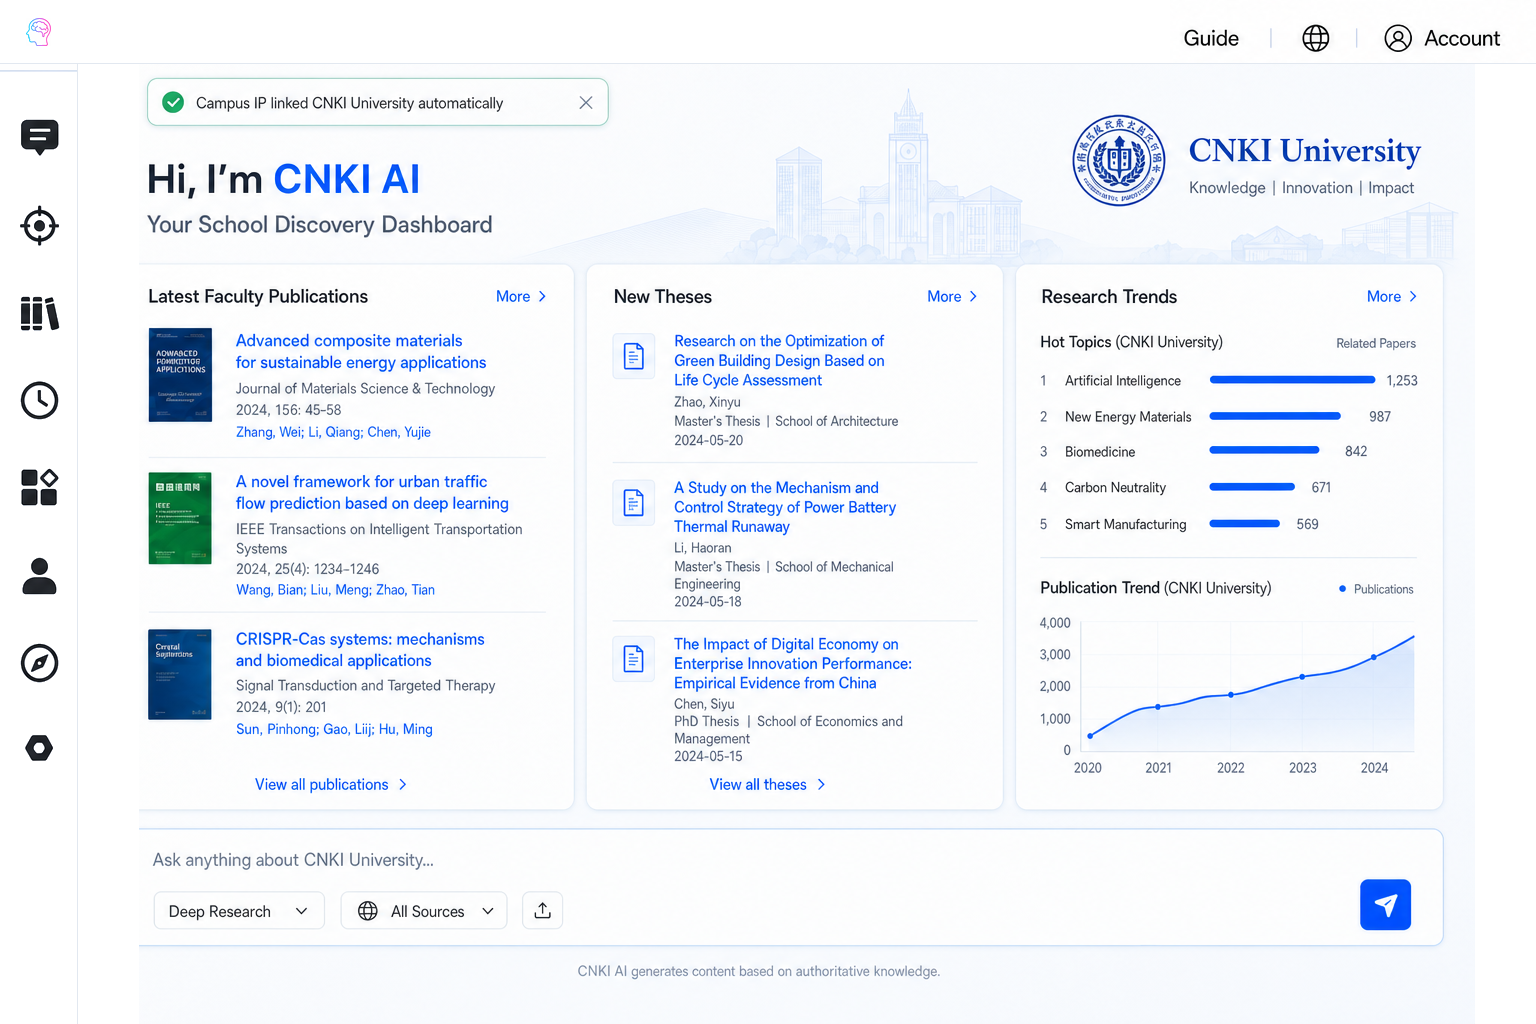
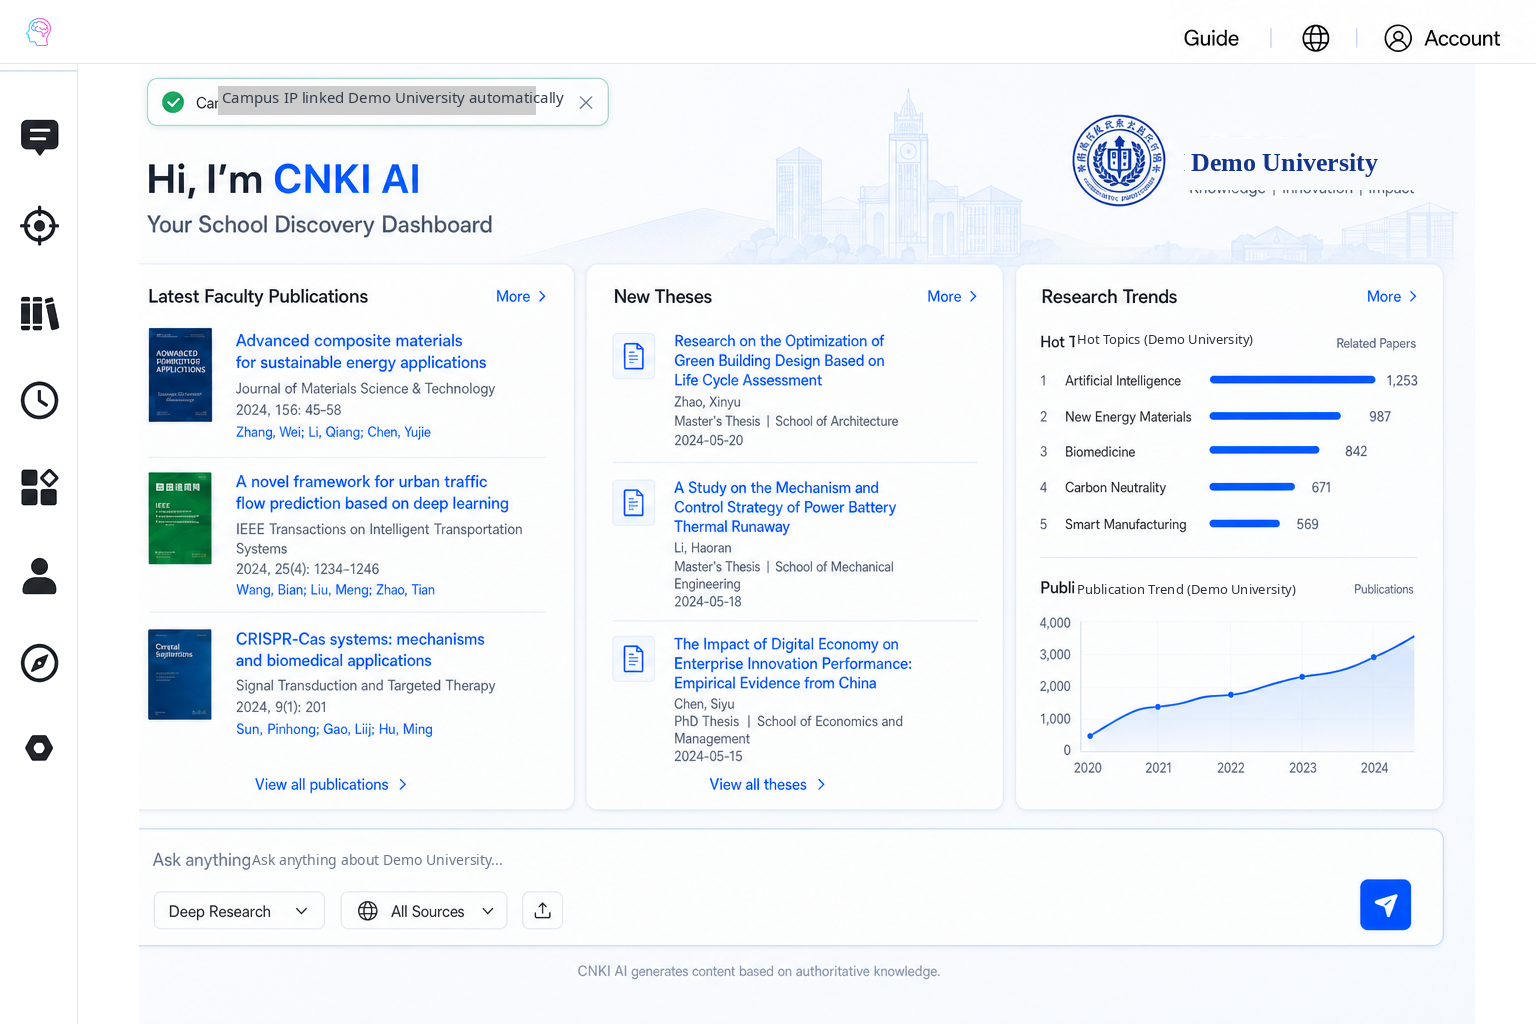
Rename CNKI University to Demo University on school dashboard preview
Update all visible institution labels in the preview PNG and matching HTML.

diff --git a/prototypes/screens/req1-school-dashboard-preview.html b/prototypes/screens/req1-school-dashboard-preview.html
@@ -143,14 +143,14 @@
     </aside>
 
     <main class="main">
-      <div class="toast">✓ Campus IP linked CNKI University automatically</div>
+      <div class="toast">✓ Campus IP linked Demo University automatically</div>
       <div class="hero">
         <div>
           <h1>Hi, I'm <span>CNKI AI</span></h1>
           <p>Your School Discovery Dashboard</p>
         </div>
         <div class="school">
-          <div class="name">CNKI University</div>
+          <div class="name">Demo University</div>
           <div class="motto">Knowledge · Innovation · Impact</div>
         </div>
       </div>
@@ -177,7 +177,7 @@
         </section>
       </div>
       <div class="ask">
-        <input placeholder="Ask anything about CNKI University..." readonly />
+        <input placeholder="Ask anything about Demo University..." readonly />
         <div class="send">➤</div>
       </div>
     </main>
